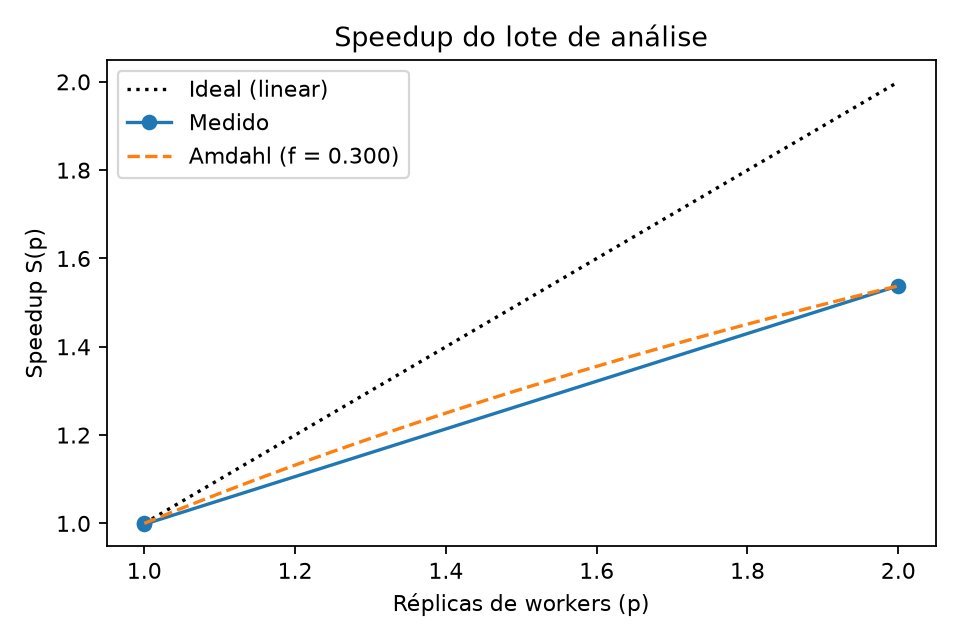
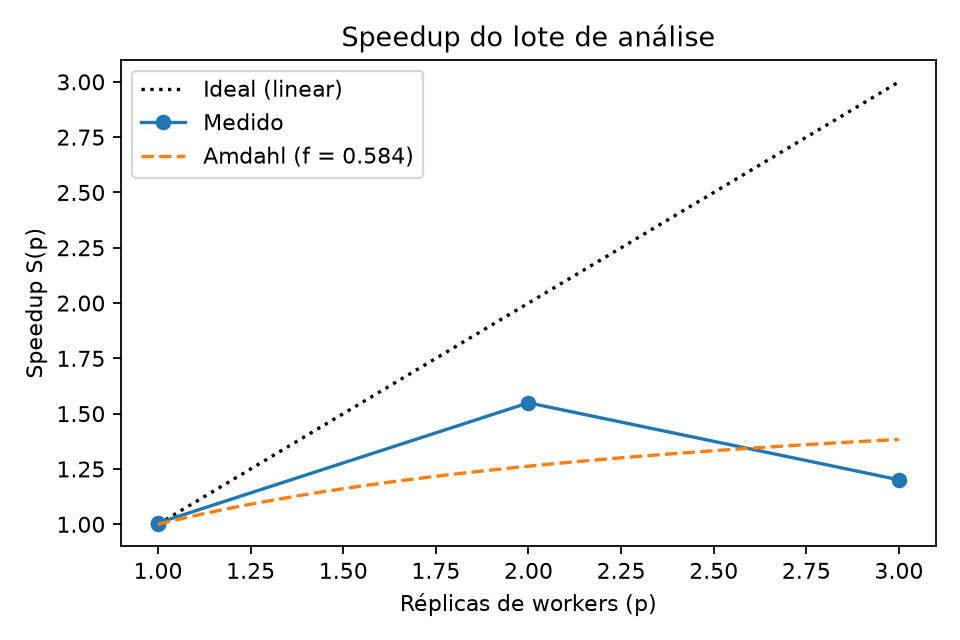
Speedup com 3 réplicas (rep 1 com aquecimento atípico)

diff --git a/experiments/resultados/speedup.tex b/experiments/resultados/speedup.tex
@@ -6,9 +6,10 @@
 \hline
 Modo & $p$ & $T_p$ (s) & $S(p)$ & $E(p)$ & Vazão (UC/s) & $e_{KF}$ \\
 \hline
-SEQUENCIAL & 1 & 26.2 $\pm$ 1.21 & 1.0 & 1.0 & 11.45 & -- \\
-PARALELO & 1 & 26.25 $\pm$ 0.29 & 0.998 & 0.998 & 11.43 & -- \\
-PARALELO & 2 & 17.04 $\pm$ 3.01 & 1.538 & 0.769 & 17.61 & 0.3004 \\
+SEQUENCIAL & 1 & 26.4 $\pm$ 1.19 & 1.0 & 1.0 & 11.365 & -- \\
+PARALELO & 1 & 26.25 $\pm$ 0.29 & 1.006 & 1.006 & 11.43 & -- \\
+PARALELO & 2 & 17.04 $\pm$ 3.01 & 1.549 & 0.775 & 17.61 & 0.2908 \\
+PARALELO & 3 & 21.99 $\pm$ 16.32 & 1.201 & 0.4 & 13.645 & 0.7494 \\
 \hline
 \end{tabular}
 \end{table}

diff --git a/experiments/resultados/speedup.md b/experiments/resultados/speedup.md
@@ -2,8 +2,9 @@
 
 | Modo | p | T (s) | S(p) | E(p) | Vazão (UC/s) | Karp–Flatt | Latência med. (ms) | Desequilíbrio |
 |---|---|---|---|---|---|---|---|---|
-| SEQUENCIAL | 1 | 26.2 ± 1.21 | 1.0 | 1.0 | 11.45 | — | 82.5 | 1.0 |
-| PARALELO | 1 | 26.25 ± 0.29 | 0.998 | 0.998 | 11.43 | — | 81.0 | 1.0 |
-| PARALELO | 2 | 17.04 ± 3.01 | 1.538 | 0.769 | 17.61 | 0.3004 | 75.0 | 1.258 |
+| SEQUENCIAL | 1 | 26.4 ± 1.19 | 1.0 | 1.0 | 11.365 | — | 82.0 | 1.0 |
+| PARALELO | 1 | 26.25 ± 0.29 | 1.006 | 1.006 | 11.43 | — | 81.0 | 1.0 |
+| PARALELO | 2 | 17.04 ± 3.01 | 1.549 | 0.775 | 17.61 | 0.2908 | 75.0 | 1.258 |
+| PARALELO | 3 | 21.99 ± 16.32 | 1.201 | 0.4 | 13.645 | 0.7494 | 116.0 | 1.23 |
 
-Fração serial estimada (Amdahl): **0.3004** → speedup máximo teórico **3.33×**.
+Fração serial estimada (Amdahl): **0.5841** → speedup máximo teórico **1.71×**.
